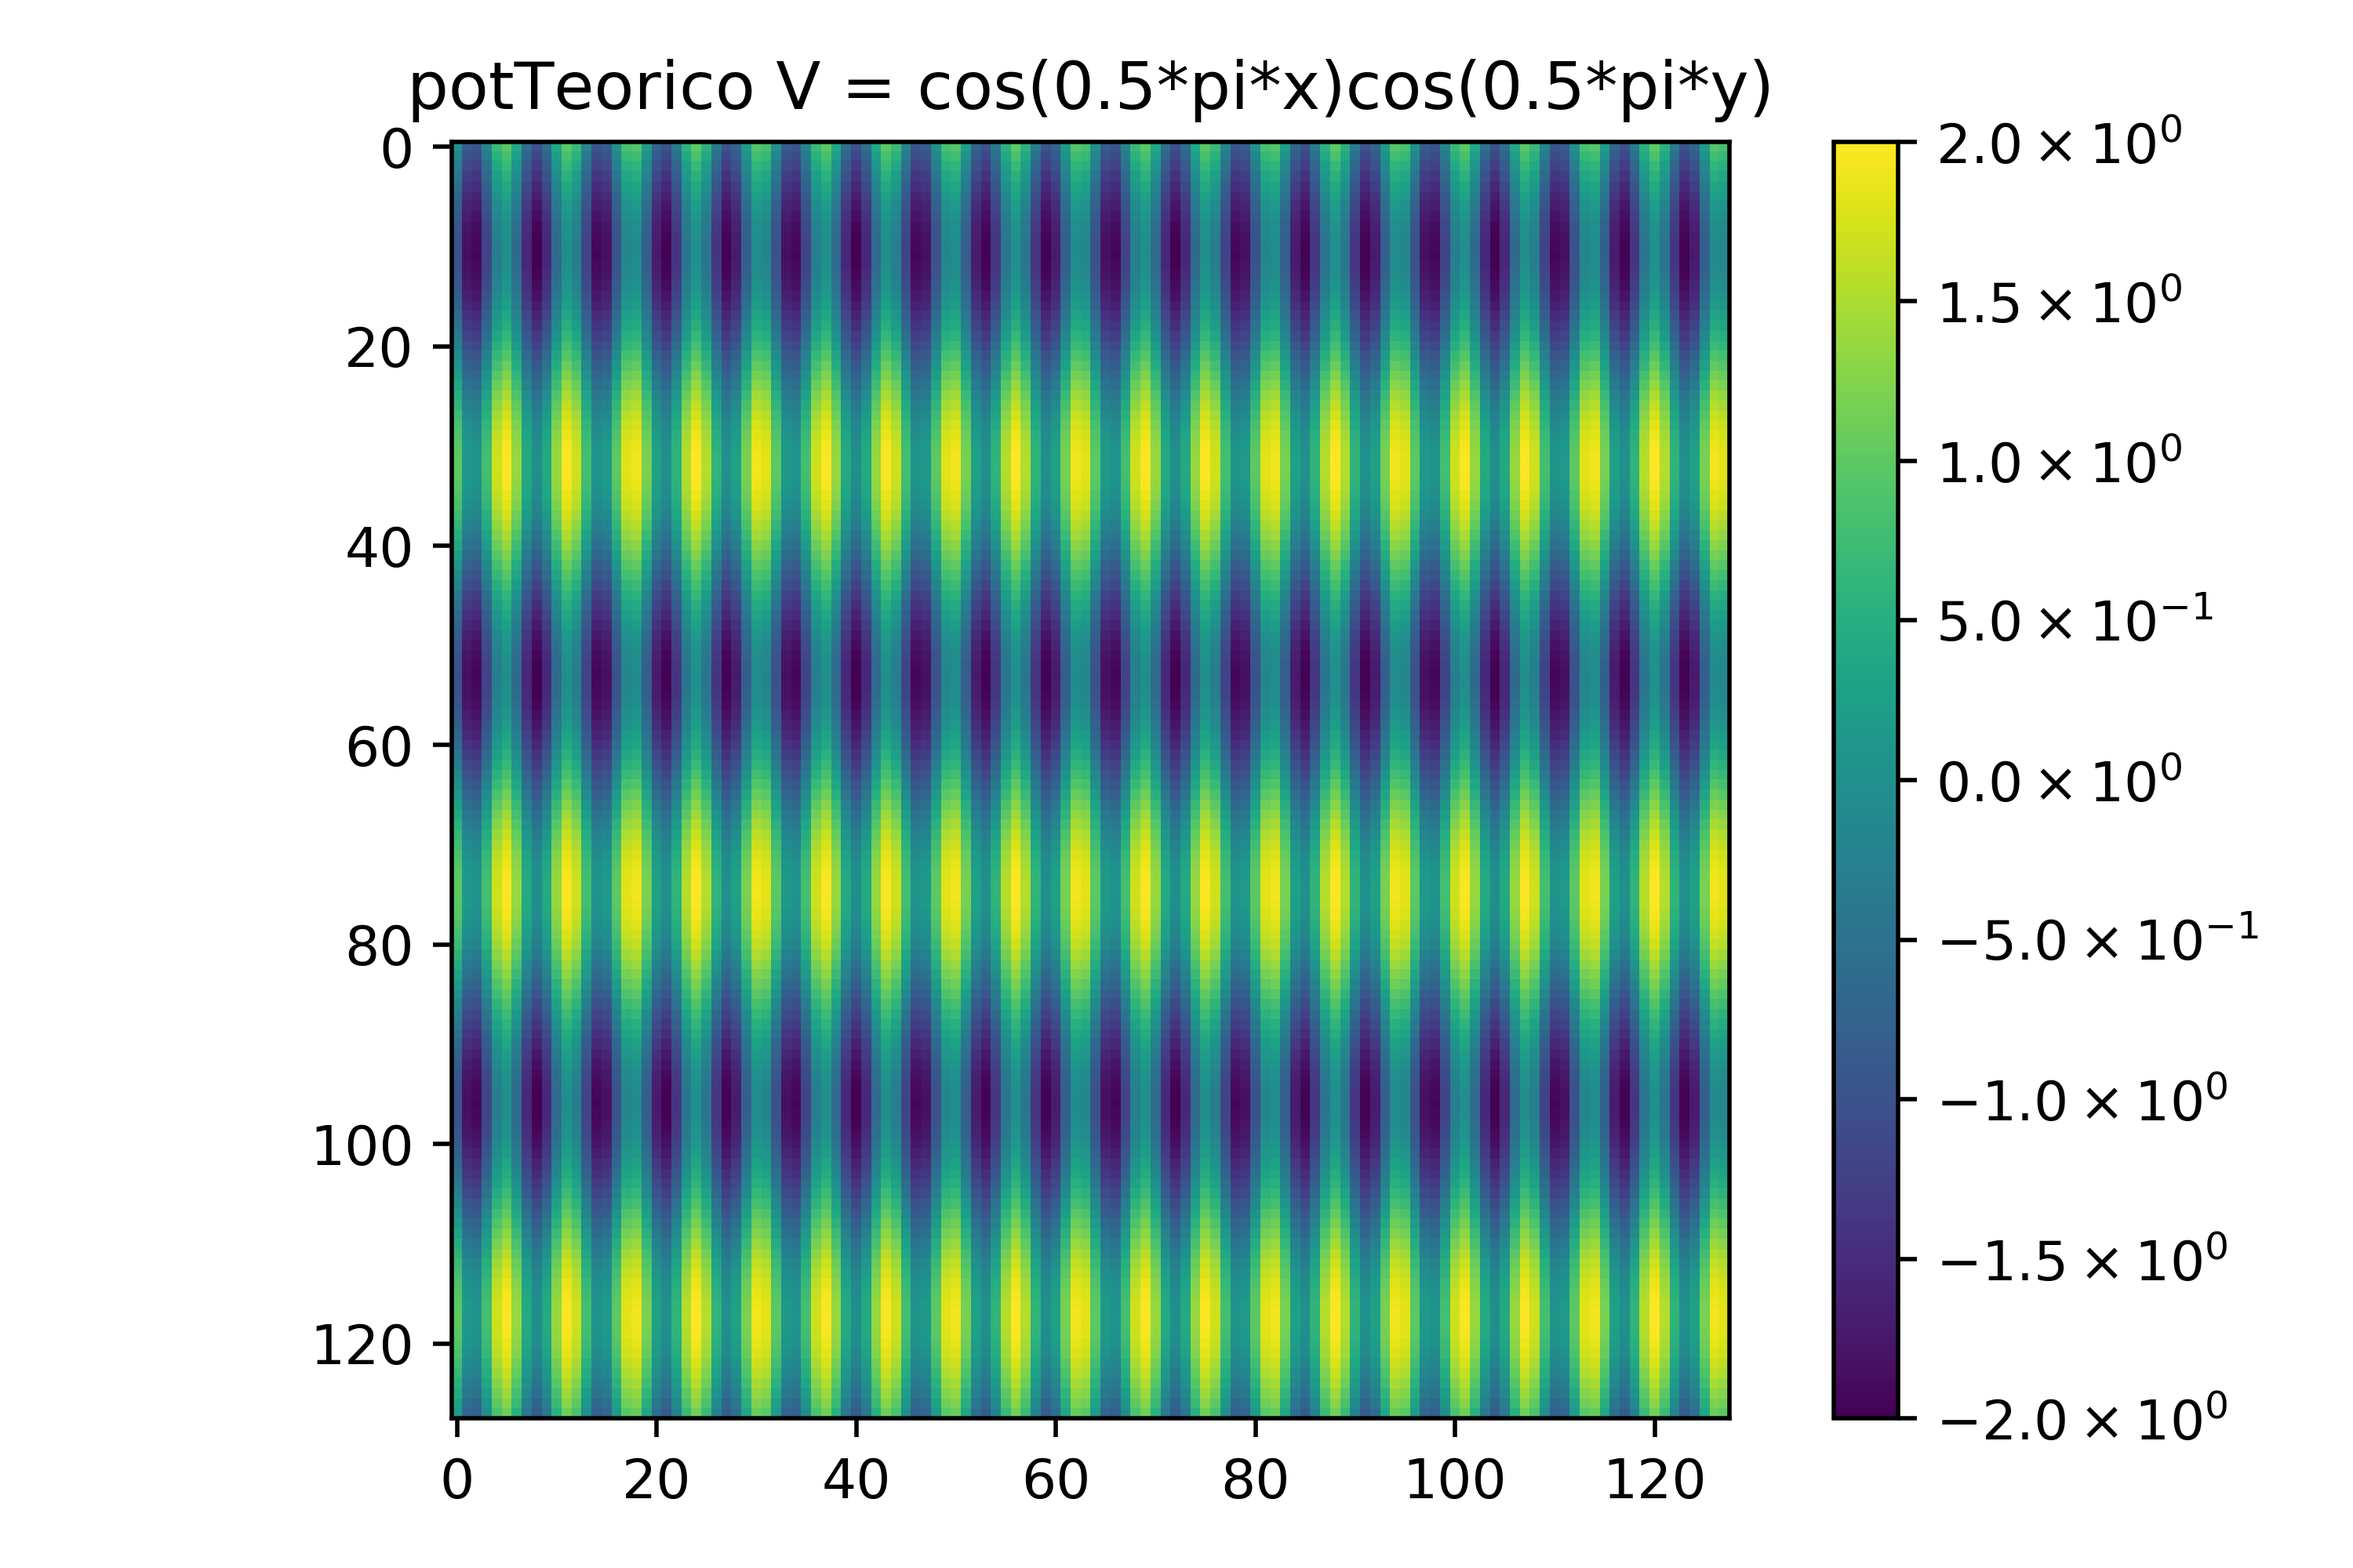
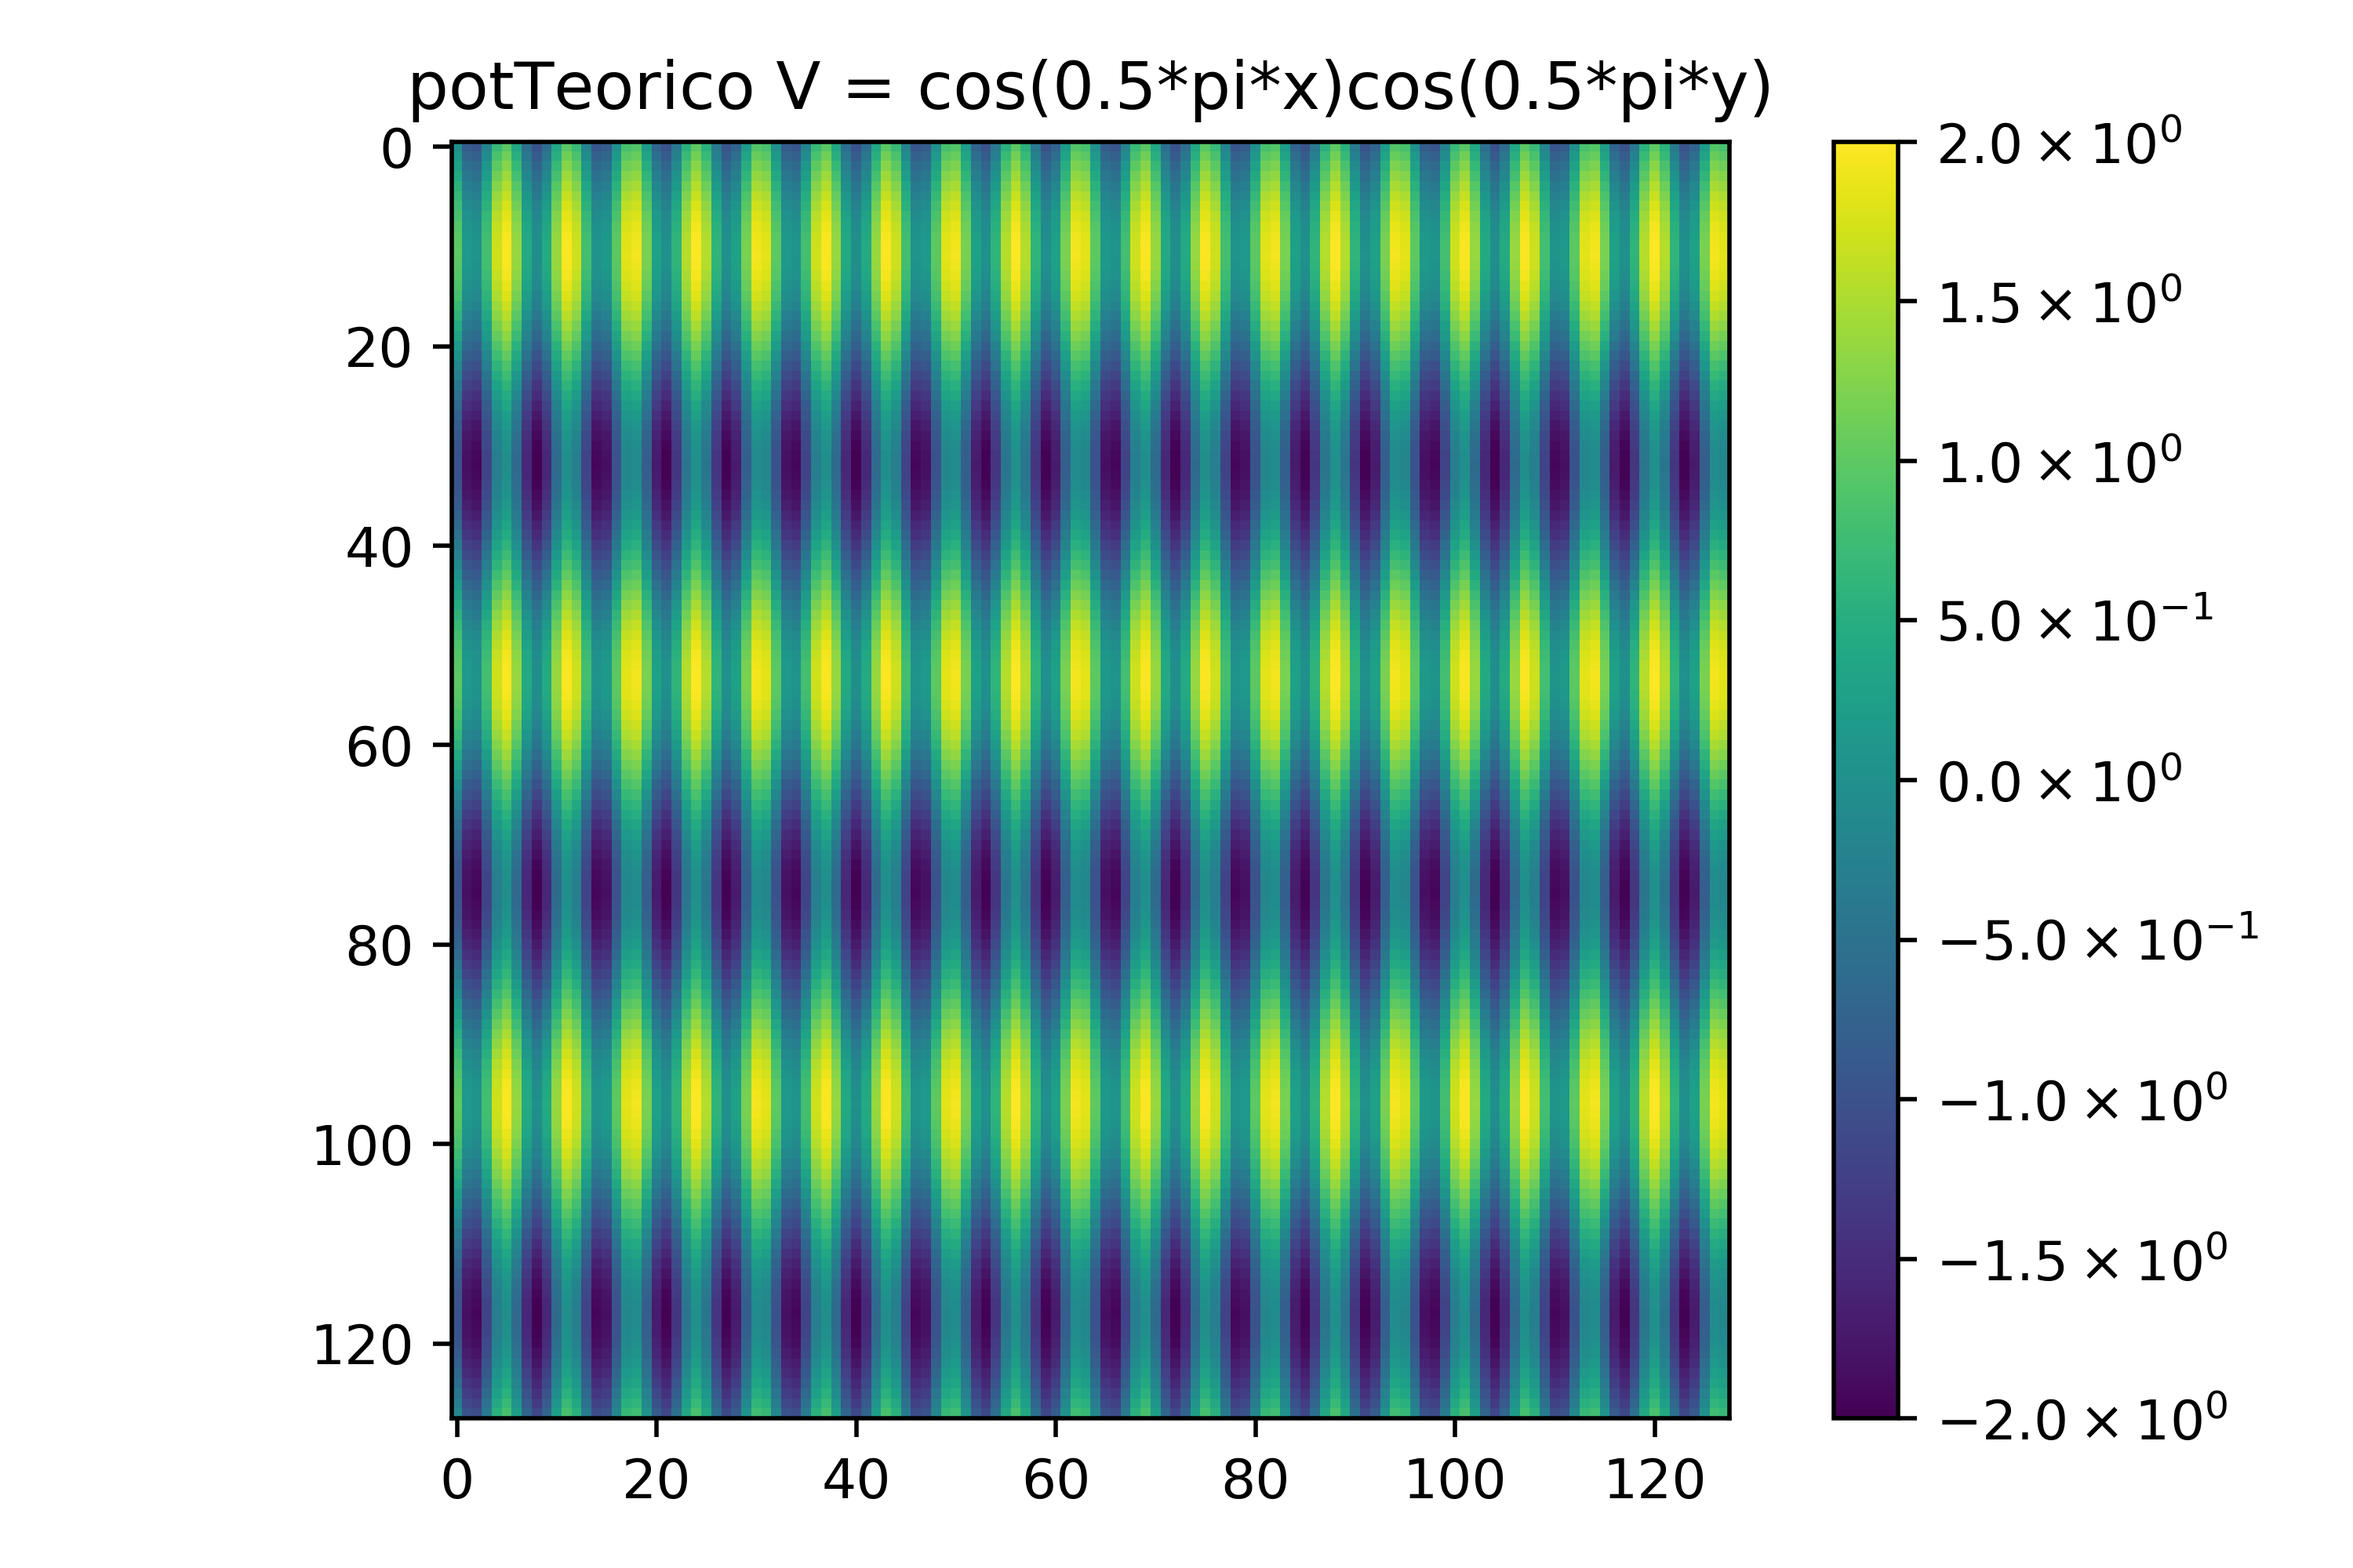
El potencial funciona, de verdad

diff --git a/poissonSolver.c b/poissonSolver.c
@@ -13,10 +13,15 @@ Javier Alejandro Acevedo Barroso
 #define PI 3.14159265359
 
 //Valores límites para la posición y velocidad.
-#define Xmin -1.0
-#define Xmax 1.0
-#define Ymin -1.0
-#define Ymax 1.0
+//#define Xmin -1.0
+//#define Xmax 1.0
+//#define Ymin -1.0
+//#define Ymax 1.0
+#define Xmin 0
+#define Xmax 2.0
+#define Ymin 0
+#define Ymax 2.0
+
 #define Vxmin -1.0
 #define Vxmax 1.0
 #define Vymin -1.0
@@ -169,6 +174,7 @@ double potencialTeorico2(int inx, int iny, int nx, int ny);
 double potencial2(); 
 double densidadTeorica2(int inx, int iny, int nx, int ny);
 double calcK3(double i2, double j2);
+double calcK4(double i2, double j2);
 
 int main()
 {
@@ -205,6 +211,8 @@ int main()
 	double sr = 0.13;
     double sv = 0.13;
 	double ampl = 0.0001;
+    int nx = 10;
+    int ny = 4;
         //printf("size of double %lu\n", sizeof(double));
         printf("%d %d %d %d\n", Nx,Ny,Nvx,Nvy);
         //phase[0][0][0][1] = 1;
@@ -220,9 +228,9 @@ int main()
                 y = Ymin*1.0+ dy*k2;
                 
                 //density[in(k1,k2)] = potencialTeorico2(k1,k2,3,20);
-                density[in(k1,k2)] = densidadTeorica2(k1,k2,3,20);
+                density[in(k1,k2)] = densidadTeorica2(k1,k2,nx,ny);
 
-                pot[in(k1,k2)] = potencialTeorico2(k1,k2,3,20);
+                pot[in(k1,k2)] = potencialTeorico2(k1,k2,nx,ny);
                 totalMass += density[in(k1,k2)]*dx*dy;// + 2.0/PI/Nx/Ny;
             }
             //printf("%d\n",k1);
@@ -235,8 +243,8 @@ int main()
         printDensity("./datFiles/density0.dat");
         printPot("./datFiles/potential0.dat");
         potencial2();
-        printAccex("./datFiles/fdens0.dat");
-        printAccey("./datFiles/fdens1.dat");
+        printAccex("./datFiles/fpot0.dat");
+        printAccey("./datFiles/fpot1.dat");
         
         printPot("./datFiles/potential1.dat");
         
@@ -362,19 +370,23 @@ double potencial2()
 
     //Devuelve carga a out Î(Chi).
     
-            for(k1=0;k1<Nx;k1+=1){
+        for(k1=0;k1<Nx;k1+=1){
         for(k2 = 0; k2 <Ny;k2 += 1){
         accex[in(k1,k2)] = creal(mem[in(k1,k2)]/Nx/Ny); //Voy a guardar en accex mi espacio de fourier
         accey[in(k1,k2)] = cimag(mem[in(k1,k2)]/Nx/Ny); //Voy a guardar en accex mi espacio de fourier
         }
     }
+
+        printAccex("./datFiles/fdens0.dat");
+        printAccey("./datFiles/fdens1.dat");
+
     
     //out[0] = -4*PI*G*mem[0] ;
     for(k1=0;k1<Nx;k1+=1){
         for(k2 = 0; k2 <Ny   ;k2 += 1){
             //printf("%f\n", mem[in(k1,k2)]);
             //printf("%f %f %d %d\n",calcK2((double)k1,(double)k2), mem[in(k1,k2)],k1,k2);            
-            out[in(k1,k2)] = -4*PI*G*(mem[in(k1,k2)])*calcK3((double)k1,(double)(k2));//Porque dx = dy y Nx = Ny.
+             out[in(k1,k2)] = -4.0*PI*1.0*(mem[in(k1,k2)])*calcK4((double)k1,(double)k2);//Porque dx = dy y Nx = Ny.
             //printf("%f\n", mem[in(k1,k2)]);
             //out[in(k1,k2)] = -PI*G*mem[in(k1,k2)]/(creal(cpow(I*PI*dx*k1,2))+ creal(cpow(I*PI*dy*k2,2)));//Random plan b que parece fallar.
             //printf("%f\n", creal(cpow(I*PI*dx*k2,2)));
@@ -383,13 +395,20 @@ double potencial2()
         }
     }
     
+
+     for(k1=0;k1<Nx;k1+=1){
+        for(k2 = 0; k2 <Ny;k2 += 1){
+        accex[in(k1,k2)] = creal(out[in(k1,k2)]); //Voy a guardar en accex mi espacio de fourier
+        accey[in(k1,k2)] = cimag(out[in(k1,k2)]); //Voy a guardar en accex mi espacio de fourier
+        }
+    }
     
         k1 = 0;
         printf("a0 es %f\n", creal(mem[in(0,0)]));
      //   out[in(0,0)] = 0;
 
 
-    
+
 
 //out[0] = PI*G*totalMass; //Posible alternativa para a0. Doesn't seems like it.
     fftw_execute(pIda);
@@ -442,8 +461,38 @@ double calcK2(double i2, double j2)
 double calcK3(double i2, double j2)
 {
     //if( ( (j2 == 0) || (j2 == Nx/2) )  && ( (i2 == 0) || (i2 == Nx/2) )  ){
-    if( ( (j2 == 0) )  && ( (i2 == 0)   )  ){
-        return 1;
+    if( ( (j2 == 0) || (j2==  Nx/2) )  && ( (i2 == 0) || (i2 == Nx/2)   )  ){
+        return 0;
+    }
+     if(i2<Nx/2+1){
+         i2 = i2;
+     }
+     if(j2<Nx/2+1){
+         j2 = j2;
+     }
+     if(i2>=Nx/2+1){
+         i2 = -i2;
+     }
+     if(j2>=Nx/2+1){
+         j2 = -j2;
+     }
+    double rta1= 2*sin(dx*j2*PI)/dx;
+    double rta2= 2*sin(dx*i2*PI)/dx;
+//     double rta1= -4*Nx*sin(PI*i2/Nx)/PI;
+//     double rta2= -4*Nx*sin(PI*j2/Nx)/PI;
+
+    
+    //printf(" (%.0f, %.0f) = %f\n",i2,j2, -1.0/(pow(rta1,2)+pow(rta2,2)));
+    return 1.0/(pow(rta1,2)+pow(rta2,2));
+    //return 1.0/(i2*i2+j2*j2);
+
+}
+
+
+double calcK4(double i2, double j2)
+{
+    if( ( (j2 == 0) || (j2==  Nx/2) )  && ( (i2 == 0) || (i2 == Nx/2)   )  ){
+        return 0;
     }
      if(i2<Nx/2+1){
          i2 = PI*i2;
@@ -452,40 +501,20 @@ double calcK3(double i2, double j2)
          j2 = PI*j2;
      }
      if(i2>=Nx/2+1){
-         i2 = PI*(-i2);
+         i2 = -PI*(Nx-i2);
      }
-     if(j2>=Nx/2-1){
-         j2 = PI*(-j2);
-     }
-    double rta1= 2*sin(dx*PI*j2)/dx;
-    double rta2= 2*sin(dx*PI*i2)/dx;
-//     double rta1= -4*Nx*sin(PI*i2/Nx)/PI;
-//     double rta2= -4*Nx*sin(PI*j2/Nx)/PI;
+     if(j2>=Nx/2+1){
+         j2 = -PI*(Nx-j2);
+     }    
+    return 1.0/(i2*i2+j2*j2);
 
-    //return 1.0/(pow(rta1,2)+pow(rta2,2));
-    return -1.0/(pow(rta1,2)+pow(rta2,2));
 }
 
-//Da el valor de la densidad pensada para que al resolver la ecuación de poisson se obtenga el potencial teorico.
-double densidadTeorica(int inx, int iny)
-{
-    
- //return -PI*cos(PI*darX(inx)*0.5)*cos(PI*darY(iny)*0.5)/(8.0*G);
-    return -PI*potencialTeorico(inx,iny)/(8.0);
-    //return -potencialTeorico(inx,iny);
-}
-
-//Potencial teórico bajo el cual se basa la densidad teorica.
-double potencialTeorico(int inx, int iny)
-{
-    
- return -cos(PI*darX(inx)*0.5)*cos(PI*darY(iny)*0.5);
-}
 
 double densidadTeorica2(int inx, int iny, int nx, int ny)
 {
     
- return -(pow(PI*0.5*2.0*nx,2)*sin(PI*darX(inx)*0.5*nx*2.0)+pow(PI*0.5*ny*2.0,2)*sin(PI*darY(iny)*0.5*ny*2.0))/(4*PI);
+ return -(pow(PI*0.5*2.0*nx,2)*sin(PI*darX(inx)*0.5*nx*2.0)+pow(PI*0.5*ny*2.0,2)*sin(PI*darY(iny)*0.5*ny*2.0))/(4.0*PI);
 
 }
 
@@ -964,19 +993,6 @@ double darVy(int input)
  return Vymin*1.0+dvy*input;   
 }
 
-//Carga el potencial teórico en el arreglo potencial.
-void loadPot(double alpha, int n)
-{
- 	for(i=0;i<Nx;i+=1) {
-                ix = darX(i);
-                    for(j=0;j<Ny;j+=1){
-                        iy = darY(j);
-                        //pot[in(i,j)] = -alpha * pow(sqrt(pow(ix,2)+pow(iy,2)),n);
-                        pot[in(i,j)] = potencialTeorico(i,j);
-                        //printf("%d %d %f %f %f %f %f %f\n", i, j,darX(i),darY(j), givePot(i,j), cos(PI*darX(i)*0.5),cos(PI*darX(j)*0.5),cos(PI*darX(i)*0.5)*cos(PI*darY(j)*0.5));
-                    }
-			}
-}
 
 
 double newPot(double alpha, int n, int iin, int jin)

diff --git a/simPlots2D.py b/simPlots2D.py
@@ -63,7 +63,7 @@ def darY(iny):
     return -1.0+2.0/128*iny
 
 
-diff = potTheo/potReal
+diff = potTheo-potReal
 
 plt.figure()
 plt.imshow(diff)
